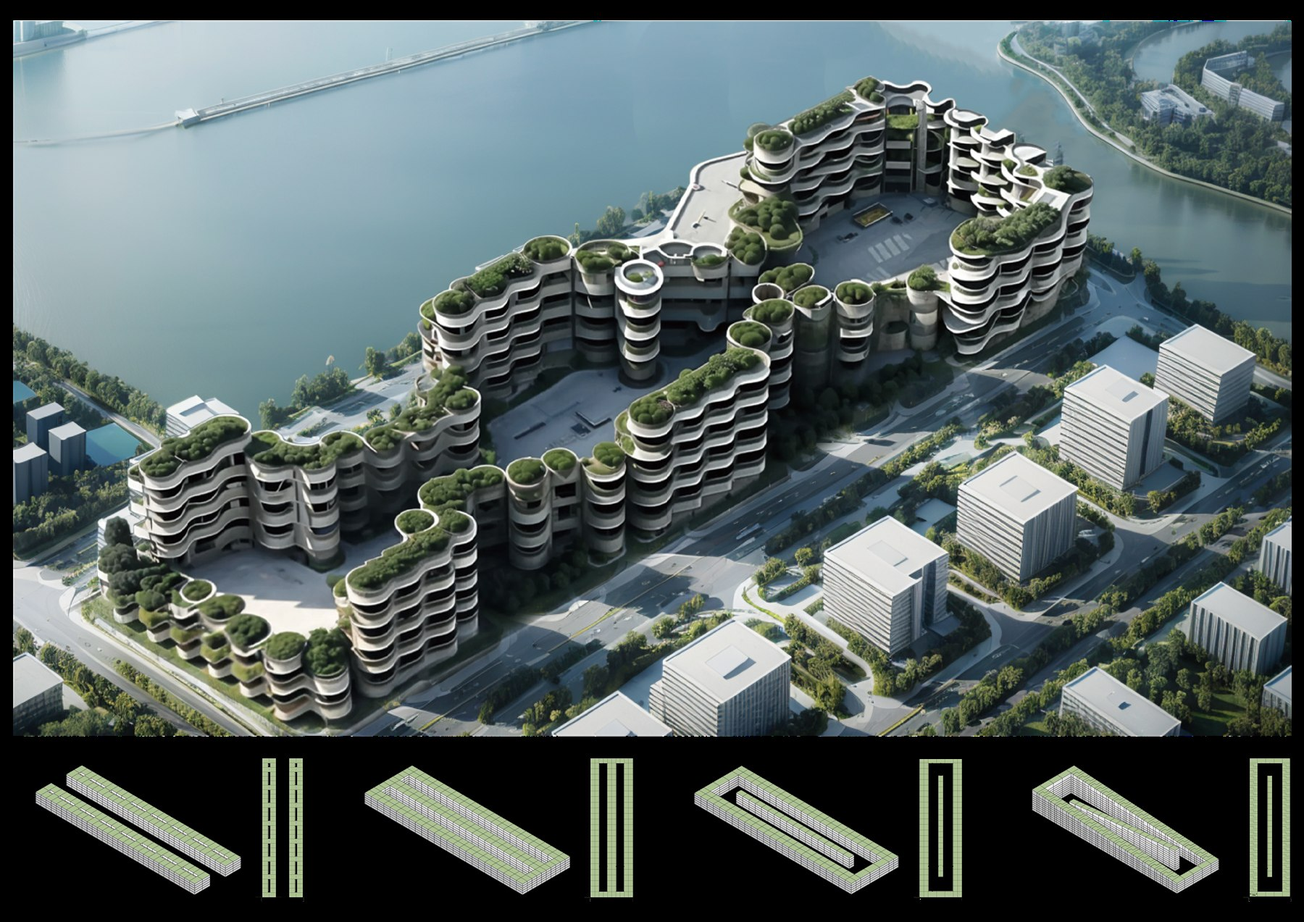
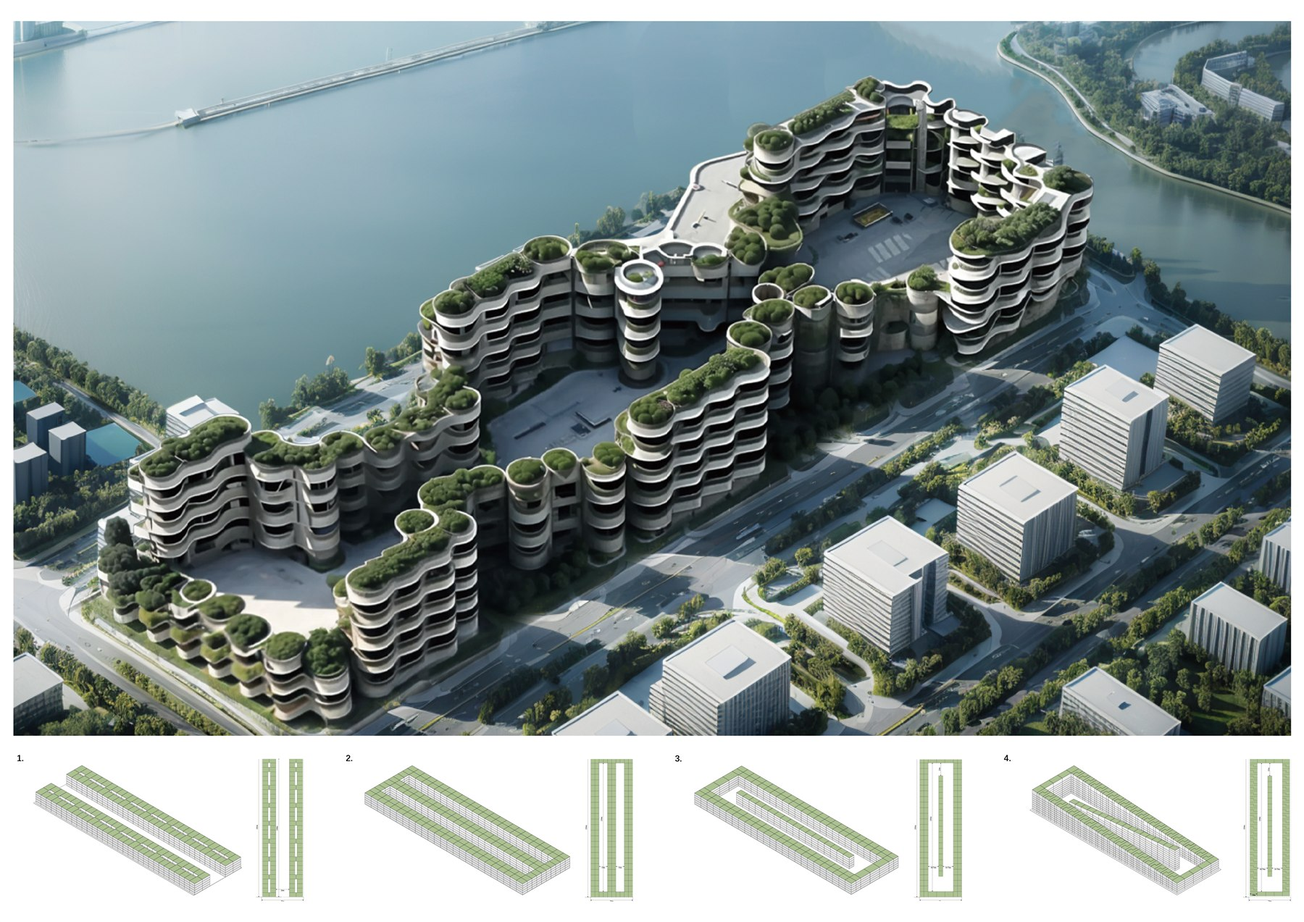
Add Project 05 and refresh Project 06

Changed region(s): [[0.0, 0.0, 1.0, 1.0]]

diff --git a/index.html b/index.html
@@ -16,12 +16,12 @@
     .menu-overlay{position:fixed;z-index:20;inset:0;background:rgba(255,255,255,.97);display:flex;align-items:center;justify-content:center;opacity:0;visibility:hidden;pointer-events:none;transition:opacity .35s,visibility .35s}.menu-overlay.open{opacity:1;visibility:visible;pointer-events:auto}.menu-links{display:flex;flex-direction:column;align-items:center;gap:12px}.menu-links a{font-size:clamp(29px,3.3vw,48px);font-weight:300;letter-spacing:-.045em;transition:opacity .2s}.menu-links a:hover{opacity:.45}.menu-links small{font-size:12px;color:#aaa;letter-spacing:.14em;margin-top:24px}
     .about .inner{display:grid;grid-template-columns:.8fr 1.55fr;gap:clamp(50px,6vw,110px);align-items:start;max-width:1070px}.portrait{height:min(43vh,390px);min-height:300px;background:#f3f3f3;overflow:hidden}.portrait img{display:block;width:100%;height:100%;object-fit:cover;object-position:center 25%;filter:none;transition:transform .7s ease}.portrait:hover img{transform:scale(1.015)}.portrait-note{font-size:clamp(29px,3vw,42px);letter-spacing:-.06em;font-weight:300;margin:18px 0 0}.about-content{display:grid;grid-template-columns:1fr 1fr;gap:28px 38px}.about-block:first-child{grid-column:1/-1}.about-block h3{font-size:20px;font-weight:400;letter-spacing:.03em;margin:0 0 12px}.about-block p{font-size:15px;line-height:1.8;color:#555;margin:0}.about-block p+p{margin-top:8px}.about-block .lead{font-size:19px;color:#252525;line-height:1.75;max-width:590px}.about-block .mini{font-size:13px;color:#777}
     .gallery .inner{max-width:1370px}.project-grid{display:grid;grid-template-columns:repeat(4,1fr);gap:28px;align-items:start}.project-card{display:block;border:0;text-align:left;background:transparent;padding:0;color:inherit;min-width:0}.art{height:min(35vh,305px);min-height:245px;display:flex;flex-direction:column;justify-content:space-between;padding:25px;overflow:hidden;position:relative;filter:grayscale(1);transition:filter .4s,transform .4s}.project-card:hover .art{filter:grayscale(.7);transform:translateY(-5px)}.art small{font-size:12px;letter-spacing:.13em}.art strong{font-size:clamp(46px,5vw,76px);font-weight:300;letter-spacing:-.09em;line-height:.95}.art-1{background:#ececea;color:#242424}.art-2{background:#d7d7d5;color:#222}.art-3{background:#c7c7c6;color:#fff}.art-4{background:#3b3b3b;color:#fff}.art .ghost{font-size:180px;font-weight:300;position:absolute;right:-20px;bottom:-55px;opacity:.12;line-height:1}.project-card .caption{margin-top:14px;font-size:15px;line-height:1.5;white-space:normal}.project-card .caption span{color:#999;margin-right:5px}
-    .project-carousel{position:relative}.architecture-track{display:flex;gap:28px;overflow-x:auto;overflow-y:hidden;scroll-snap-type:x mandatory;scroll-behavior:smooth;overscroll-behavior-x:contain;scrollbar-width:none;padding:5px 0 12px}.architecture-track::-webkit-scrollbar{display:none}.architecture-track .architecture-card{flex:0 0 calc((100% - 84px)/4);scroll-snap-align:start}.carousel-arrow{position:absolute;z-index:5;top:calc(50% - 28px);width:44px;height:64px;border:0;background:rgba(255,255,255,.88);color:#777;font-size:38px;font-weight:200;line-height:1;transition:opacity .25s,color .25s;backdrop-filter:blur(5px)}.carousel-arrow:hover{color:#111}.carousel-arrow.prev{left:-54px}.carousel-arrow.next{right:-54px}.carousel-arrow:disabled{opacity:.12;pointer-events:none}.architecture-card .art{padding:0;background:#eee}.architecture-card .art img{width:100%;height:100%;object-fit:cover;filter:grayscale(1);transition:filter .45s,transform .55s}.architecture-card:hover .art img{filter:grayscale(.15);transform:scale(1.025)}.architecture-card .caption{font-size:14px}.architecture-card .caption b{display:block;font-size:16px;font-weight:400;margin-top:3px}.architecture-detail .inner{max-width:1240px}.architecture-detail .arch-head{display:grid;grid-template-columns:minmax(0,1.05fr) minmax(300px,.95fr);gap:56px;align-items:end;margin-bottom:28px}.architecture-detail h2{font-size:clamp(38px,4.3vw,66px);font-weight:300;line-height:1.05;letter-spacing:-.06em;margin:0}.architecture-detail .subtitle{font-size:17px;color:#888;margin:11px 0 0}.architecture-detail .arch-copy{font-size:15px;line-height:1.7;color:#555;margin:0}.arch-meta{font-size:12px;color:#999;letter-spacing:.035em;margin-top:12px}.portfolio-spreads{display:grid;grid-template-columns:repeat(2,minmax(0,1fr));gap:14px;height:min(49vh,420px)}.portfolio-spreads.three{grid-template-columns:1.35fr .65fr}.portfolio-spreads.three button:first-child{grid-row:1/3}.portfolio-spreads.four{grid-template-columns:1.35fr .65fr;grid-template-rows:repeat(3,1fr)}.portfolio-spreads.four button:first-child{grid-row:1/4}.spread-button{border:0;background:#f3f3f1;padding:0;overflow:hidden;min-width:0;cursor:zoom-in}.spread-button img{display:block;width:100%;height:100%;object-fit:cover;transition:transform .45s,filter .45s}.spread-button:hover img{transform:scale(1.015);filter:contrast(1.03)}.portfolio-spreads.three button:not(:first-child),.portfolio-spreads.four button:not(:first-child){min-height:0}.lightbox{border:0;padding:0;background:transparent;max-width:94vw;max-height:92vh}.lightbox::backdrop{background:rgba(0,0,0,.88)}.lightbox img{display:block;max-width:94vw;max-height:90vh;object-fit:contain}.lightbox button{position:fixed;top:20px;right:24px;border:0;background:transparent;color:#fff;font-size:34px;font-weight:200;cursor:pointer}
+    .project-carousel{position:relative}.architecture-track{display:flex;gap:28px;overflow-x:auto;overflow-y:hidden;scroll-snap-type:x mandatory;scroll-behavior:smooth;overscroll-behavior-x:contain;scrollbar-width:none;padding:5px 0 12px}.architecture-track::-webkit-scrollbar{display:none}.architecture-track .architecture-card{flex:0 0 calc((100% - 84px)/4);scroll-snap-align:start}.carousel-arrow{position:absolute;z-index:5;top:calc(50% - 28px);width:44px;height:64px;border:0;background:rgba(255,255,255,.88);color:#777;font-size:38px;font-weight:200;line-height:1;transition:opacity .25s,color .25s;backdrop-filter:blur(5px)}.carousel-arrow:hover{color:#111}.carousel-arrow.prev{left:-54px}.carousel-arrow.next{right:-54px}.carousel-arrow:disabled{opacity:.12;pointer-events:none}.architecture-card .art{padding:0;background:#eee}.architecture-card .art img{width:100%;height:100%;object-fit:cover;filter:grayscale(1);transition:filter .45s,transform .55s}.architecture-card:hover .art img{filter:grayscale(.15);transform:scale(1.025)}.architecture-card .caption{font-size:14px}.architecture-card .caption b{display:block;font-size:16px;font-weight:400;margin-top:3px}.architecture-detail .inner{max-width:1240px}.architecture-detail .arch-head{display:grid;grid-template-columns:minmax(0,1.05fr) minmax(300px,.95fr);gap:56px;align-items:end;margin-bottom:28px}.architecture-detail h2{font-size:clamp(38px,4.3vw,66px);font-weight:300;line-height:1.05;letter-spacing:-.06em;margin:0}.architecture-detail .subtitle{font-size:17px;color:#888;margin:11px 0 0}.architecture-detail .arch-copy{font-size:15px;line-height:1.7;color:#555;margin:0}.arch-meta{font-size:12px;color:#999;letter-spacing:.035em;margin-top:12px}.portfolio-spreads{display:grid;grid-template-columns:repeat(2,minmax(0,1fr));gap:14px;height:min(49vh,420px)}.portfolio-spreads.three{grid-template-columns:1.35fr .65fr}.portfolio-spreads.three button:first-child{grid-row:1/3}.portfolio-spreads.four{grid-template-columns:1.35fr .65fr;grid-template-rows:repeat(3,1fr)}.portfolio-spreads.four button:first-child{grid-row:1/4}.portfolio-spreads.five{grid-template-columns:1.35fr .65fr;grid-template-rows:repeat(4,1fr)}.portfolio-spreads.five button:first-child{grid-row:1/5}.spread-button{border:0;background:#f3f3f1;padding:0;overflow:hidden;min-width:0;cursor:zoom-in}.spread-button img{display:block;width:100%;height:100%;object-fit:cover;transition:transform .45s,filter .45s}.spread-button:hover img{transform:scale(1.015);filter:contrast(1.03)}.portfolio-spreads.three button:not(:first-child),.portfolio-spreads.four button:not(:first-child),.portfolio-spreads.five button:not(:first-child){min-height:0}.lightbox{border:0;padding:0;background:transparent;max-width:94vw;max-height:92vh}.lightbox::backdrop{background:rgba(0,0,0,.88)}.lightbox img{display:block;max-width:94vw;max-height:90vh;object-fit:contain}.lightbox button{position:fixed;top:20px;right:24px;border:0;background:transparent;color:#fff;font-size:34px;font-weight:200;cursor:pointer}
     .detail .inner{max-width:1120px}.detail .number{font-size:16px;color:#999;margin-bottom:12px}.detail h2{font-size:clamp(43px,5vw,76px);line-height:1.14;font-weight:300;letter-spacing:-.065em;margin:0 0 12px}.detail .subtitle{font-size:23px;color:#8c8c8c;margin:0 0 42px}.detail-info{display:grid;grid-template-columns:220px 1fr;gap:55px}.detail-meta{font-size:14px;line-height:1.9;color:#777}.detail-copy{font-size:18px;line-height:1.8;max-width:690px;margin:0}.detail-measures{display:flex;gap:38px;margin:42px 0 0;flex-wrap:wrap}.detail-measures div{border-top:1px solid #d4d4d4;padding-top:13px;min-width:140px}.detail-measures strong{font-size:34px;font-weight:300;letter-spacing:-.06em;display:block}.detail-measures span{font-size:13px;color:#777}.detail-panel{height:18vh;min-height:145px;margin-top:38px;background:#f0f0ee;display:flex;align-items:center;justify-content:center;color:#a0a0a0;font-size:14px;letter-spacing:.08em;text-align:center;padding:20px}.detail:nth-of-type(even) .detail-panel{background:#e9e9e7}.architecture-detail,.detail{position:fixed;z-index:45;inset:0;width:100%;height:100svh;background:#fff;overflow-y:auto;opacity:0;visibility:hidden;pointer-events:none;transform:translateY(18px);transition:opacity .32s ease,transform .45s cubic-bezier(.22,.8,.25,1),visibility .32s}.architecture-detail.is-open,.detail.is-open{opacity:1;visibility:visible;pointer-events:auto;transform:none}.detail-close{position:fixed;z-index:60;top:30px;right:clamp(24px,4.6vw,72px);border:0;background:rgba(255,255,255,.9);color:#555;padding:8px 0;font-size:14px;letter-spacing:.04em;cursor:pointer}.detail-close:hover{color:#111}body.drilldown-open{overflow:hidden}.drilldown-open .top{opacity:0;pointer-events:none}.top{transition:opacity .25s}
     .others .inner{max-width:1100px}.others-grid{display:grid;grid-template-columns:1.2fr .8fr .8fr;gap:22px}.other-tile{height:min(41vh,360px);min-height:250px;background:#e9e9e9;display:flex;align-items:flex-end;padding:24px;position:relative}.other-tile:nth-child(2){background:#d7d7d7}.other-tile:nth-child(3){background:#c4c4c4}.other-tile strong{font-size:26px;font-weight:300;letter-spacing:-.05em}.other-tile span{position:absolute;top:24px;left:24px;font-size:13px;color:#777}.contact{align-items:center;justify-content:center;text-align:center}.contact .inner{margin:auto}.contact h2{margin-bottom:85px}.contact a{font-size:clamp(19px,2.2vw,33px);font-weight:300;letter-spacing:-.03em;display:block;margin:25px auto}.contact .endmark{position:absolute;bottom:23px;font-size:15px;color:#aaa}
     [data-reveal]{opacity:.35;transform:translateY(24px);transition:opacity .65s ease,transform .65s ease}.screen.is-visible [data-reveal]{opacity:1;transform:none}.screen.is-visible [data-reveal]:nth-child(2){transition-delay:.08s}.screen.is-visible [data-reveal]:nth-child(3){transition-delay:.15s}.screen.hero.directory-open .hero-inner[data-reveal]{transform:translateY(-18vh)}
     @media(max-width:850px){html{scroll-snap-type:y proximity}.top{height:80px;padding:25px 24px}.screen{min-height:700px;padding:100px 26px 65px}.about .inner{grid-template-columns:1fr 1.4fr;gap:30px}.portrait{height:320px;min-height:0}.about-content{gap:20px}.project-grid{grid-template-columns:repeat(2,1fr);gap:18px}.art{min-height:170px;height:23vh}.gallery{min-height:750px}.gallery .inner{margin-top:auto;margin-bottom:auto}.detail-info{grid-template-columns:155px 1fr;gap:25px}.detail-panel{height:15vh}.architecture-detail .arch-head{grid-template-columns:1fr;gap:16px}.portfolio-spreads{height:min(46vh,360px)}.others-grid{gap:12px}.other-tile{min-height:230px}}
-    @media(max-width:600px){html{scroll-snap-type:none}.top{height:70px;padding:20px}.logo{font-size:18px}.section-index{font-size:12px}.screen{height:auto;min-height:100svh;overflow:visible;padding:105px 23px 70px;scroll-snap-align:none}.screen-title{font-size:42px;margin-bottom:38px}.above{margin-bottom:18px}.hero{min-height:100svh}.hero h1{font-size:82px}.hero .role{font-size:17px}.hero .micro{font-size:11px}.hero.directory-open .hero-inner{transform:translateY(-17vh)}.hero-directory{top:56%;gap:9px}.hero-directory a{font-size:27px}.about .inner{display:block}.portrait{height:220px;margin-bottom:20px}.portrait-note{margin-bottom:27px}.about-content{display:block}.about-block{margin-top:25px}.about-block .lead{font-size:17px}.gallery{min-height:100svh}.project-grid{grid-template-columns:repeat(2,1fr);gap:22px 12px}.art{height:180px;min-height:0;padding:14px}.art strong{font-size:43px}.art .ghost{font-size:120px}.project-card .caption{font-size:13px}.detail{min-height:100svh}.detail h2{font-size:46px}.detail .subtitle{font-size:18px;margin-bottom:33px}.detail-info{display:block}.detail-meta{margin-bottom:25px}.detail-copy{font-size:16px}.detail-measures{gap:16px;margin-top:30px}.detail-measures div{min-width:110px}.detail-measures strong{font-size:29px}.detail-panel{margin-top:32px;min-height:160px}.architecture-detail .arch-head{display:block}.architecture-detail .arch-copy{margin-top:20px}.portfolio-spreads,.portfolio-spreads.three{display:grid;grid-template-columns:1fr;height:auto;gap:10px}.portfolio-spreads.three button:first-child{grid-row:auto}.spread-button{height:31vw;min-height:145px}.others-grid{grid-template-columns:1fr 1fr;gap:12px}.other-tile{height:180px;min-height:0}.other-tile:first-child{grid-column:1/-1;height:220px}.other-tile strong{font-size:22px}.contact h2{margin-bottom:60px}.contact a{font-size:19px}.progress{display:none}.below{bottom:23px}}
+    @media(max-width:600px){html{scroll-snap-type:none}.top{height:70px;padding:20px}.logo{font-size:18px}.section-index{font-size:12px}.screen{height:auto;min-height:100svh;overflow:visible;padding:105px 23px 70px;scroll-snap-align:none}.screen-title{font-size:42px;margin-bottom:38px}.above{margin-bottom:18px}.hero{min-height:100svh}.hero h1{font-size:82px}.hero .role{font-size:17px}.hero .micro{font-size:11px}.hero.directory-open .hero-inner{transform:translateY(-17vh)}.hero-directory{top:56%;gap:9px}.hero-directory a{font-size:27px}.about .inner{display:block}.portrait{height:220px;margin-bottom:20px}.portrait-note{margin-bottom:27px}.about-content{display:block}.about-block{margin-top:25px}.about-block .lead{font-size:17px}.gallery{min-height:100svh}.project-grid{grid-template-columns:repeat(2,1fr);gap:22px 12px}.art{height:180px;min-height:0;padding:14px}.art strong{font-size:43px}.art .ghost{font-size:120px}.project-card .caption{font-size:13px}.detail{min-height:100svh}.detail h2{font-size:46px}.detail .subtitle{font-size:18px;margin-bottom:33px}.detail-info{display:block}.detail-meta{margin-bottom:25px}.detail-copy{font-size:16px}.detail-measures{gap:16px;margin-top:30px}.detail-measures div{min-width:110px}.detail-measures strong{font-size:29px}.detail-panel{margin-top:32px;min-height:160px}.architecture-detail .arch-head{display:block}.architecture-detail .arch-copy{margin-top:20px}.portfolio-spreads,.portfolio-spreads.three,.portfolio-spreads.five{display:grid;grid-template-columns:1fr;height:auto;gap:10px}.portfolio-spreads.three button:first-child,.portfolio-spreads.five button:first-child{grid-row:auto}.spread-button{height:31vw;min-height:145px}.others-grid{grid-template-columns:1fr 1fr;gap:12px}.other-tile{height:180px;min-height:0}.other-tile:first-child{grid-column:1/-1;height:220px}.other-tile strong{font-size:22px}.contact h2{margin-bottom:60px}.contact a{font-size:19px}.progress{display:none}.below{bottom:23px}}
     @media(max-width:850px){.architecture-track{gap:18px}.architecture-track .architecture-card{flex-basis:calc((100% - 18px)/2)}.carousel-arrow.prev{left:-18px}.carousel-arrow.next{right:-18px}.portfolio-spreads.four{height:min(46vh,360px)}}
     @media(max-width:600px){.architecture-track{gap:12px}.architecture-track .architecture-card{flex-basis:calc((100% - 12px)/2)}.carousel-arrow{display:none}.portfolio-spreads.four{display:grid;grid-template-columns:1fr;height:auto}.portfolio-spreads.four button:first-child{grid-row:auto}.screen.hero.directory-open .hero-inner[data-reveal]{transform:translateY(-20vh)}}
     @media(prefers-reduced-motion:reduce){html{scroll-behavior:auto}*,*:before,*:after{transition:none!important;animation:none!important}[data-reveal]{opacity:1;transform:none}}
@@ -36,11 +36,12 @@
   <main>
     <section class="screen hero" id="home" data-name="Home"><div class="hero-inner" id="heroTrigger" data-reveal role="button" tabindex="0" aria-expanded="false" aria-controls="heroDirectory"><h1>SHUYU.</h1><p class="role">CONTENT · CITIES · STORIES</p><p class="micro">Portfolio / 2026</p></div><nav class="hero-directory" id="heroDirectory" aria-label="首页目录"><a href="#about">About me</a><a href="#architecture">Project</a><a href="#projects">Experience</a><a href="#others">Others</a><a href="#contact">Contact me</a></nav><a class="below" href="#about">About me ↓</a></section>
     <section class="screen about" id="about" data-name="About me"><h2 class="screen-title">About me</h2><div class="inner"><div data-reveal><div class="portrait"><img src="assets/shuyu-shen.png" alt="沈姝羽个人肖像" loading="eager"></div><h2 class="portrait-note">Shuyu Shen</h2></div><div class="about-content" data-reveal><div class="about-block"><h3>About me</h3><p class="lead">我关注内容如何连接人、场景与情绪，也习惯用数据验证一个故事是否真正被看见。</p></div><div class="about-block"><h3>EDUCATION</h3><p>香港大学 · 城市分析理学硕士<br>2026.09—2027.06</p><p>西交利物浦大学 · 建筑学工学学士<br>2022.09—2026.06 · 一等荣誉 · GPA 3.96/4.0</p></div><div class="about-block"><h3>EXPERIENCE</h3><p>中国移动 · 产品营销 · 2025.08—2025.09<br>知渔传媒 · 新媒体运营 · 2025.10—2026.09<br>南方科技大学 · 研究助理 · 2024.06—2024.07</p></div><div class="about-block"><h3>SKILLS</h3><p class="mini">Excel · Python · GIS · Climate Consultant<br>Photoshop · Illustrator · InDesign · Rhino · Grasshopper · AutoCAD · SketchUp</p></div><div class="about-block"><h3>INTERESTS</h3><p class="mini">摄影 · 钢琴 · 徒步旅行 · 健身训练</p></div></div></div><a class="below" href="#architecture">Project ↓</a></section>
-    <section class="screen gallery" id="architecture" data-name="Project"><div class="inner"><h2 class="screen-title" data-reveal>Project</h2><div class="project-carousel" data-reveal><button class="carousel-arrow prev" type="button" aria-label="查看前面的项目">‹</button><div class="project-grid architecture-track" id="architectureTrack"><a class="project-card architecture-card" href="#architecture-1"><div class="art"><img src="assets/portfolio/p01-1.jpg" alt="Balance Between Emotion 项目版面" loading="lazy"></div><div class="caption"><span>01 /</span><b>Balance Between Emotion</b>Sacred spaces of spiritual healing</div></a><a class="project-card architecture-card" href="#architecture-2"><div class="art"><img src="assets/portfolio/p02-1.jpg" alt="Weaving Building 项目版面" loading="lazy"></div><div class="caption"><span>02 /</span><b>Weaving Building</b>Cultural center regeneration</div></a><a class="project-card architecture-card" href="#architecture-3"><div class="art"><img src="assets/portfolio/p03-1.jpg" alt="Desire Factory 项目版面" loading="lazy"></div><div class="caption"><span>03 /</span><b>Desire Factory</b>Narrative architecture</div></a><a class="project-card architecture-card" href="#architecture-4"><div class="art"><img src="assets/portfolio/p04-1.jpg" alt="Loop in Motion 项目版面" loading="lazy"></div><div class="caption"><span>04 /</span><b>Loop in Motion</b>Gymnasium</div></a><a class="project-card architecture-card" href="#architecture-6"><div class="art"><img src="assets/portfolio/p06-1.jpg" alt="Climate-Adaptive Housing Typologies 项目版面" loading="lazy"></div><div class="caption"><span>06 /</span><b>Climate-Adaptive Housing</b>Typologies for Chongqing & Harbin</div></a></div><button class="carousel-arrow next" type="button" aria-label="查看更多项目">›</button></div></div><a class="below" href="#architecture-1">Project ↓</a></section>
+    <section class="screen gallery" id="architecture" data-name="Project"><div class="inner"><h2 class="screen-title" data-reveal>Project</h2><div class="project-carousel" data-reveal><button class="carousel-arrow prev" type="button" aria-label="查看前面的项目">‹</button><div class="project-grid architecture-track" id="architectureTrack"><a class="project-card architecture-card" href="#architecture-1"><div class="art"><img src="assets/portfolio/p01-1.jpg" alt="Balance Between Emotion 项目版面" loading="lazy"></div><div class="caption"><span>01 /</span><b>Balance Between Emotion</b>Sacred spaces of spiritual healing</div></a><a class="project-card architecture-card" href="#architecture-2"><div class="art"><img src="assets/portfolio/p02-1.jpg" alt="Weaving Building 项目版面" loading="lazy"></div><div class="caption"><span>02 /</span><b>Weaving Building</b>Cultural center regeneration</div></a><a class="project-card architecture-card" href="#architecture-3"><div class="art"><img src="assets/portfolio/p03-1.jpg" alt="Desire Factory 项目版面" loading="lazy"></div><div class="caption"><span>03 /</span><b>Desire Factory</b>Narrative architecture</div></a><a class="project-card architecture-card" href="#architecture-4"><div class="art"><img src="assets/portfolio/p04-1.jpg" alt="Loop in Motion 项目版面" loading="lazy"></div><div class="caption"><span>04 /</span><b>Loop in Motion</b>Gymnasium</div></a><a class="project-card architecture-card" href="#architecture-5"><div class="art"><img src="assets/portfolio/p05-1.jpg" alt="OUROBOROS 3D 打印亭项目版面" loading="lazy"></div><div class="caption"><span>05 /</span><b>OUROBOROS</b>3D-printed concrete pavilion</div></a><a class="project-card architecture-card" href="#architecture-6"><div class="art"><img src="assets/portfolio/p06-1.jpg" alt="Climate-Adaptive Housing Typologies 项目版面" loading="lazy"></div><div class="caption"><span>06 /</span><b>Climate-Adaptive Housing</b>Typologies for Chongqing & Harbin</div></a></div><button class="carousel-arrow next" type="button" aria-label="查看更多项目">›</button></div></div><a class="below" href="#architecture-1">Project ↓</a></section>
     <section class="screen architecture-detail" id="architecture-1" data-name="01 / Balance Between Emotion"><div class="inner" data-reveal><div class="arch-head"><div><div class="above" style="text-align:left">01 / ARCHITECTURE</div><h2>Balance Between Emotion</h2><p class="subtitle">Sacred Spaces of Spiritual Healing</p><div class="arch-meta">LUMU MOUNTAIN, SUZHOU · 09/2025—12/2025</div></div><p class="arch-copy">以“平衡”为核心，将疗愈空间放入山地景观。项目借助空间序列、光线和路径，回应情绪恢复与自我重新发现的过程。</p></div><div class="portfolio-spreads"><button class="spread-button" data-lightbox="assets/portfolio/p01-1.jpg" aria-label="查看第一页"><img src="assets/portfolio/p01-1.jpg" alt="项目背景、场地与平衡概念" loading="lazy"></button><button class="spread-button" data-lightbox="assets/portfolio/p01-2.jpg" aria-label="查看第二页"><img src="assets/portfolio/p01-2.jpg" alt="情绪研究与空间序列" loading="lazy"></button></div></div><a class="below" href="#architecture-2">Next project ↓</a></section>
     <section class="screen architecture-detail" id="architecture-2" data-name="02 / Weaving Building"><div class="inner" data-reveal><div class="arch-head"><div><div class="above" style="text-align:left">02 / ARCHITECTURE</div><h2>Weaving Building</h2><p class="subtitle">Cultural Center · Regeneration Project</p><div class="arch-meta">NANCHANG STREET, WUXI · URBAN FABRIC</div></div><p class="arch-copy">从南长街与古运河的丝织历史出发，以“编织”重新连接场地、城市肌理与公共生活，将文化中心嵌入旧城更新的日常路径。</p></div><div class="portfolio-spreads three"><button class="spread-button" data-lightbox="assets/portfolio/p02-1.jpg" aria-label="查看项目总览"><img src="assets/portfolio/p02-1.jpg" alt="总平面、平面与项目概览" loading="lazy"></button><button class="spread-button" data-lightbox="assets/portfolio/p02-2.jpg" aria-label="查看设计分析"><img src="assets/portfolio/p02-2.jpg" alt="场地、用户与编织策略分析" loading="lazy"></button><button class="spread-button" data-lightbox="assets/portfolio/p02-3.jpg" aria-label="查看空间成果"><img src="assets/portfolio/p02-3.jpg" alt="构造分解与空间渲染" loading="lazy"></button></div></div><a class="below" href="#architecture-3">Next project ↓</a></section>
     <section class="screen architecture-detail" id="architecture-3" data-name="03 / Desire Factory"><div class="inner" data-reveal><div class="arch-head"><div><div class="above" style="text-align:left">03 / ARCHITECTURE</div><h2>Desire Factory</h2><p class="subtitle">Narrative Architecture</p><div class="arch-meta">FUTURE CITY · MACHINE / DESIRE SYSTEM</div></div><p class="arch-copy">一个关于欲望、规训与城市机器的叙事建筑实验。项目把社会结构转译为可拆解的系统，以强烈的黑红视觉构建未来城市寓言。</p></div><div class="portfolio-spreads"><button class="spread-button" data-lightbox="assets/portfolio/p03-1.jpg" aria-label="查看概念页"><img src="assets/portfolio/p03-1.jpg" alt="欲望工厂叙事概念与建筑系统" loading="lazy"></button><button class="spread-button" data-lightbox="assets/portfolio/p03-2.jpg" aria-label="查看系统页"><img src="assets/portfolio/p03-2.jpg" alt="用户分析与欲望系统拆解" loading="lazy"></button></div></div><a class="below" href="#architecture-4">Next project ↓</a></section>
-    <section class="screen architecture-detail" id="architecture-4" data-name="04 / Loop in Motion"><div class="inner" data-reveal><div class="arch-head"><div><div class="above" style="text-align:left">04 / ARCHITECTURE</div><h2>Loop in Motion</h2><p class="subtitle">Gymnasium</p><div class="arch-meta">SHANGHAI, CHINA · 01/2025—04/2025</div></div><p class="arch-copy">以连续运动环路组织体育中心，将分散的人流、功能与滨水开放空间编织成多层循环系统，并结合被动式环境策略提升可持续表现。</p></div><div class="portfolio-spreads"><button class="spread-button" data-lightbox="assets/portfolio/p04-1.jpg" aria-label="查看项目概览"><img src="assets/portfolio/p04-1.jpg" alt="项目背景、场地与环路概念" loading="lazy"></button><button class="spread-button" data-lightbox="assets/portfolio/p04-2.jpg" aria-label="查看设计成果"><img src="assets/portfolio/p04-2.jpg" alt="体量、剖面与构造策略" loading="lazy"></button></div></div><a class="below" href="#architecture-6">Project ↓</a></section>
+    <section class="screen architecture-detail" id="architecture-4" data-name="04 / Loop in Motion"><div class="inner" data-reveal><div class="arch-head"><div><div class="above" style="text-align:left">04 / ARCHITECTURE</div><h2>Loop in Motion</h2><p class="subtitle">Gymnasium</p><div class="arch-meta">SHANGHAI, CHINA · 01/2025—04/2025</div></div><p class="arch-copy">以连续运动环路组织体育中心，将分散的人流、功能与滨水开放空间编织成多层循环系统，并结合被动式环境策略提升可持续表现。</p></div><div class="portfolio-spreads"><button class="spread-button" data-lightbox="assets/portfolio/p04-1.jpg" aria-label="查看项目概览"><img src="assets/portfolio/p04-1.jpg" alt="项目背景、场地与环路概念" loading="lazy"></button><button class="spread-button" data-lightbox="assets/portfolio/p04-2.jpg" aria-label="查看设计成果"><img src="assets/portfolio/p04-2.jpg" alt="体量、剖面与构造策略" loading="lazy"></button></div></div><a class="below" href="#architecture-5">Next project ↓</a></section>
+    <section class="screen architecture-detail" id="architecture-5" data-name="05 / OUROBOROS"><div class="inner" data-reveal><div class="arch-head"><div><div class="above" style="text-align:left">05 / ARCHITECTURE</div><h2>OUROBOROS</h2><p class="subtitle">3D-printed concrete pavilion</p><div class="arch-meta">BIM · DIGITAL FABRICATION · STRUCTURAL ANALYSIS</div></div><p class="arch-copy">将 BIM、数字制造与结构分析结合，设计一座供人停留与放松的亭子。项目从蝙蝠翼与海浪的形态特征出发，通过曲面演化、构件拆分、Karamba 结构分析与实体模型验证，呈现 3D 混凝土打印的建造潜力。</p></div><div class="portfolio-spreads five"><button class="spread-button" data-lightbox="assets/portfolio/p05-1.jpg" aria-label="查看项目总览"><img src="assets/portfolio/p05-1.jpg" alt="OUROBOROS 实体模型、立面与项目说明" loading="lazy"></button><button class="spread-button" data-lightbox="assets/portfolio/p05-2.jpg" aria-label="查看概念与模型"><img src="assets/portfolio/p05-2.jpg" alt="形态概念、效果图与实体模型" loading="lazy"></button><button class="spread-button" data-lightbox="assets/portfolio/p05-3.jpg" aria-label="查看形态演化"><img src="assets/portfolio/p05-3.jpg" alt="亭子形态演化、拆分与装配过程" loading="lazy"></button><button class="spread-button" data-lightbox="assets/portfolio/p05-4.jpg" aria-label="查看结构分析"><img src="assets/portfolio/p05-4.jpg" alt="曲面参数与 Karamba 结构分析" loading="lazy"></button><button class="spread-button" data-lightbox="assets/portfolio/p05-5.jpg" aria-label="查看打印设备"><img src="assets/portfolio/p05-5.jpg" alt="3D 混凝土打印设备与制造流程" loading="lazy"></button></div></div><a class="below" href="#architecture-6">Next project ↓</a></section>
     <section class="screen architecture-detail" id="architecture-6" data-name="06 / Climate-Adaptive Housing"><div class="inner" data-reveal><div class="arch-head"><div><div class="above" style="text-align:left">06 / ARCHITECTURE</div><h2>Climate-Adaptive Housing</h2><p class="subtitle">High-density residential typologies</p><div class="arch-meta">CHONGQING & HARBIN · CLIMATE PERFORMANCE</div></div><p class="arch-copy">以南北向线性住宅为基础，比较重庆湿热气候与哈尔滨严寒气候下的体量、朝向、采光和通风表现，并通过单元重组、围合方式与立面调整形成具有地域适应性的高密度住宅原型。</p></div><div class="portfolio-spreads four"><button class="spread-button" data-lightbox="assets/portfolio/p06-1.jpg" aria-label="查看项目总览"><img src="assets/portfolio/p06-1.jpg" alt="高密度住宅总体形态与生成过程" loading="lazy"></button><button class="spread-button" data-lightbox="assets/portfolio/p06-2.jpg" aria-label="查看重庆方案"><img src="assets/portfolio/p06-2.jpg" alt="重庆住宅类型、采光与通风分析" loading="lazy"></button><button class="spread-button" data-lightbox="assets/portfolio/p06-3.jpg" aria-label="查看住宅效果"><img src="assets/portfolio/p06-3.jpg" alt="滨水高密度住宅效果与形态生成" loading="lazy"></button><button class="spread-button" data-lightbox="assets/portfolio/p06-4.jpg" aria-label="查看哈尔滨方案"><img src="assets/portfolio/p06-4.jpg" alt="哈尔滨住宅类型、日照与通风分析" loading="lazy"></button></div></div><a class="below" href="#projects">Experience ↓</a></section>
     <section class="screen gallery" id="projects" data-name="Experience"><div class="inner"><h2 class="screen-title" data-reveal>Experience</h2><div class="project-grid" data-reveal><a class="project-card" href="#project-1"><div class="art art-1"><small>CONTENT</small><strong>100K+</strong><span class="ghost">01</span></div><div class="caption"><span>01 /</span> 抖音、小红书个人账号</div></a><a class="project-card" href="#project-2"><div class="art art-2"><small>NEW MEDIA</small><strong>20+</strong><span class="ghost">02</span></div><div class="caption"><span>02 /</span> 知渔传媒新媒体运营</div></a><a class="project-card" href="#project-3"><div class="art art-3"><small>MARKETING</small><strong>200+</strong><span class="ghost">03</span></div><div class="caption"><span>03 /</span> 中国移动产品营销</div></a><a class="project-card" href="#project-4"><div class="art art-4"><small>RESEARCH</small><strong>DATA</strong><span class="ghost">04</span></div><div class="caption"><span>04 /</span> 环境与气候数据分析</div></a></div></div><a class="below" href="#project-1">Experience ↓</a></section>
     <section class="screen detail" id="project-1" data-name="01 / Personal accounts"><div class="inner" data-reveal><div class="number">01 / 04 · CONTENT</div><h2>抖音、小红书个人账号</h2><p class="subtitle">独立内容运营</p><div class="detail-info"><div class="detail-meta">独立内容项目<br>2022.09 — 至今<br>选题 / 制作 / 发布 / 复盘</div><div><p class="detail-copy">独立管理抖音和小红书的全部内容生命周期，包括话题选择、内容创作、发布及账号维护；根据受众互动情况和反馈持续迭代内容主题与呈现形式。</p><div class="detail-measures"><div><strong>100K+</strong><span>平台总浏览量</span></div><div><strong>30K+</strong><span>点赞数</span></div><div><strong>4K+</strong><span>粉丝数</span></div></div></div></div><div class="detail-panel">作品封面与数据截图可在此展示</div></div><a class="below" href="#project-2">Experience ↓</a></section>
